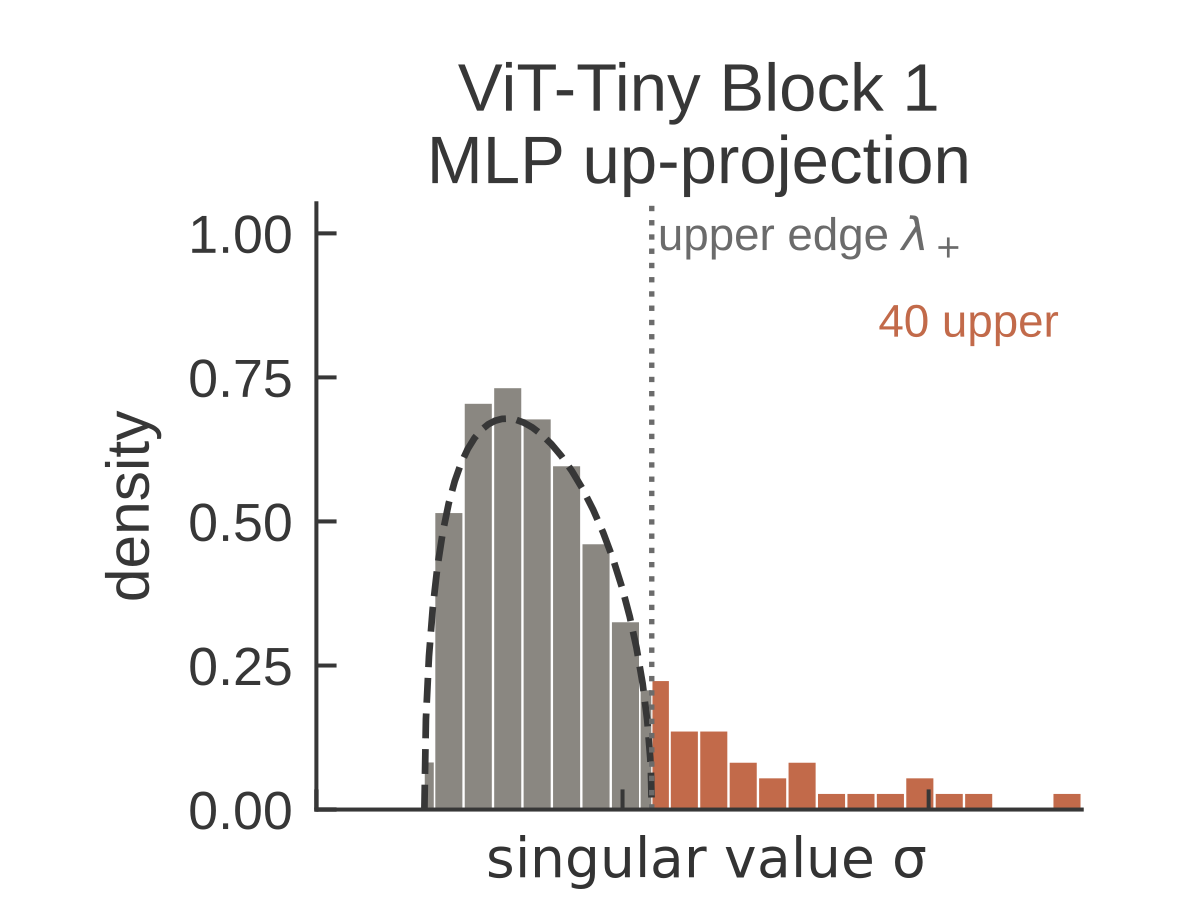
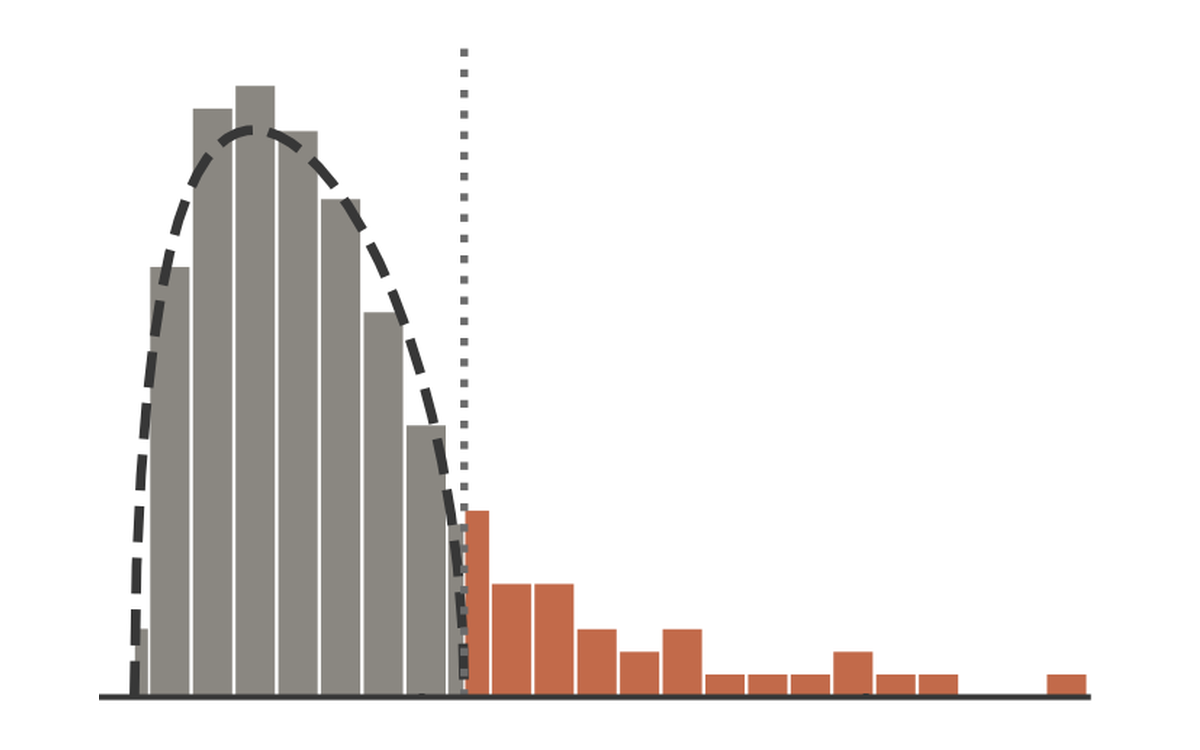
Link PPO+ PDF from bio; 16:10 RMT thumbnail; add MINTO and KINGS thumbnails

diff --git a/_pages/about.md b/_pages/about.md
@@ -23,7 +23,7 @@ latest_posts:
   limit: 3
 ---
 
-I am a final-year PhD candidate at the University of Würzburg, advised by Prof. Carlo D'Eramo. I began my PhD developing [policy search]({{ '/papers/abs/' | relative_url }}) and [policy optimization](https://rlj.cs.umass.edu/2026/papers/Paper8.html) algorithms, and this work led me to ask how the networks inside these algorithms actually learn. My research now focuses on the learning dynamics of neural networks and on using them to design better training methods. In particular, I work on [memory and plasticity](https://openreview.net/forum?id=Kgz0zlJVS6) in continual learning and on [how these dynamics differ between reinforcement and supervised learning]({{ '/papers/ric/' | relative_url }}).
+I am a final-year PhD candidate at the University of Würzburg, advised by Prof. Carlo D'Eramo. I began my PhD developing [policy search]({{ '/papers/abs/' | relative_url }}) and [policy optimization](https://rlj.cs.umass.edu/2026/papers/Paper8.pdf) algorithms, and this work led me to ask how the networks inside these algorithms actually learn. My research now focuses on the learning dynamics of neural networks and on using them to design better training methods. In particular, I work on [memory and plasticity](https://openreview.net/forum?id=Kgz0zlJVS6) in continual learning and on [how these dynamics differ between reinforcement and supervised learning]({{ '/papers/ric/' | relative_url }}).
 
 Before my PhD, I interned in the Scool team at Inria Lille and studied at ENS Paris-Saclay (MVA) and Télécom Paris.
 
